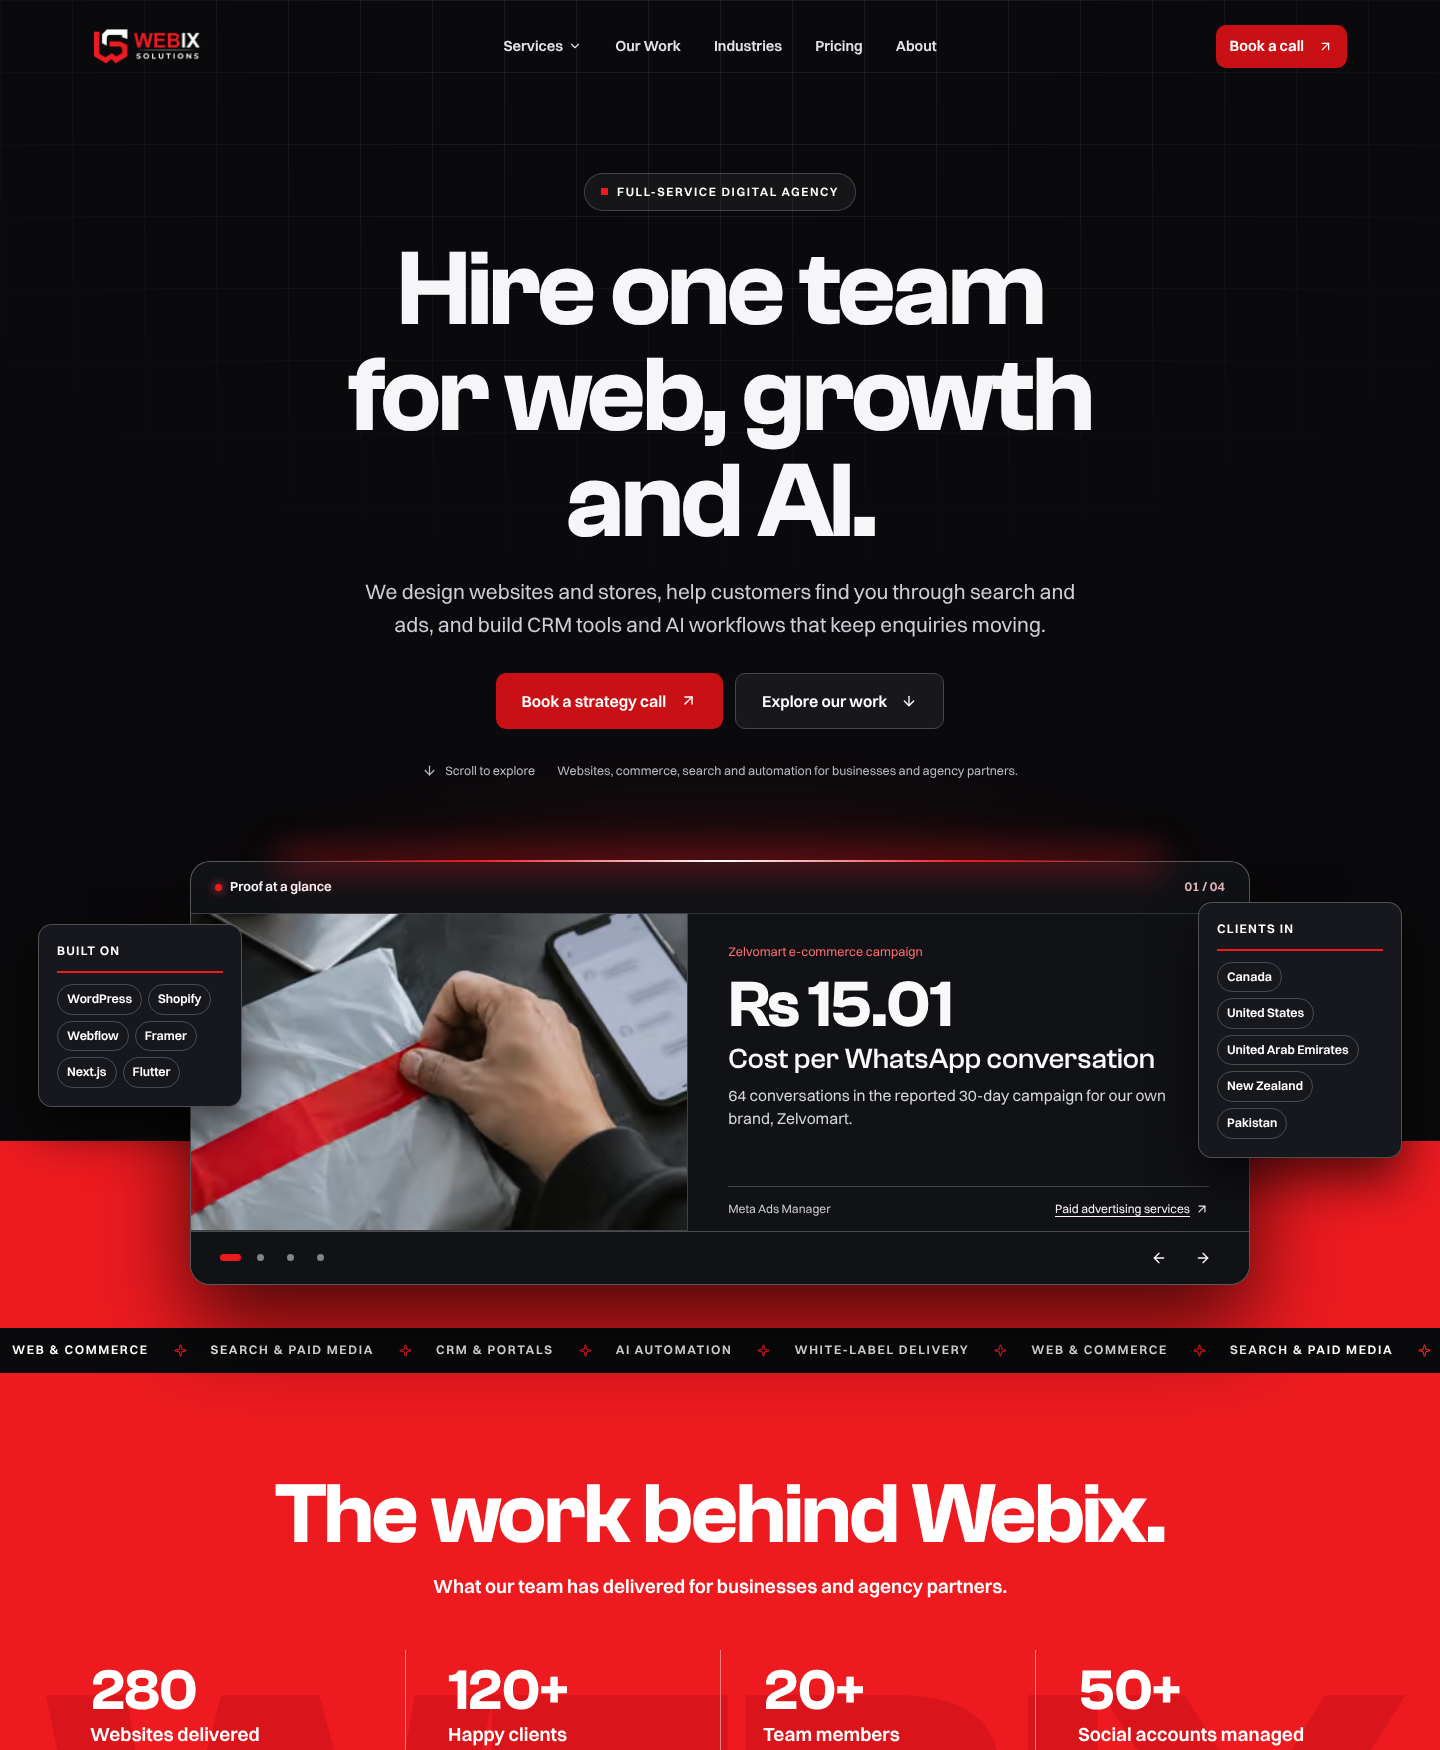
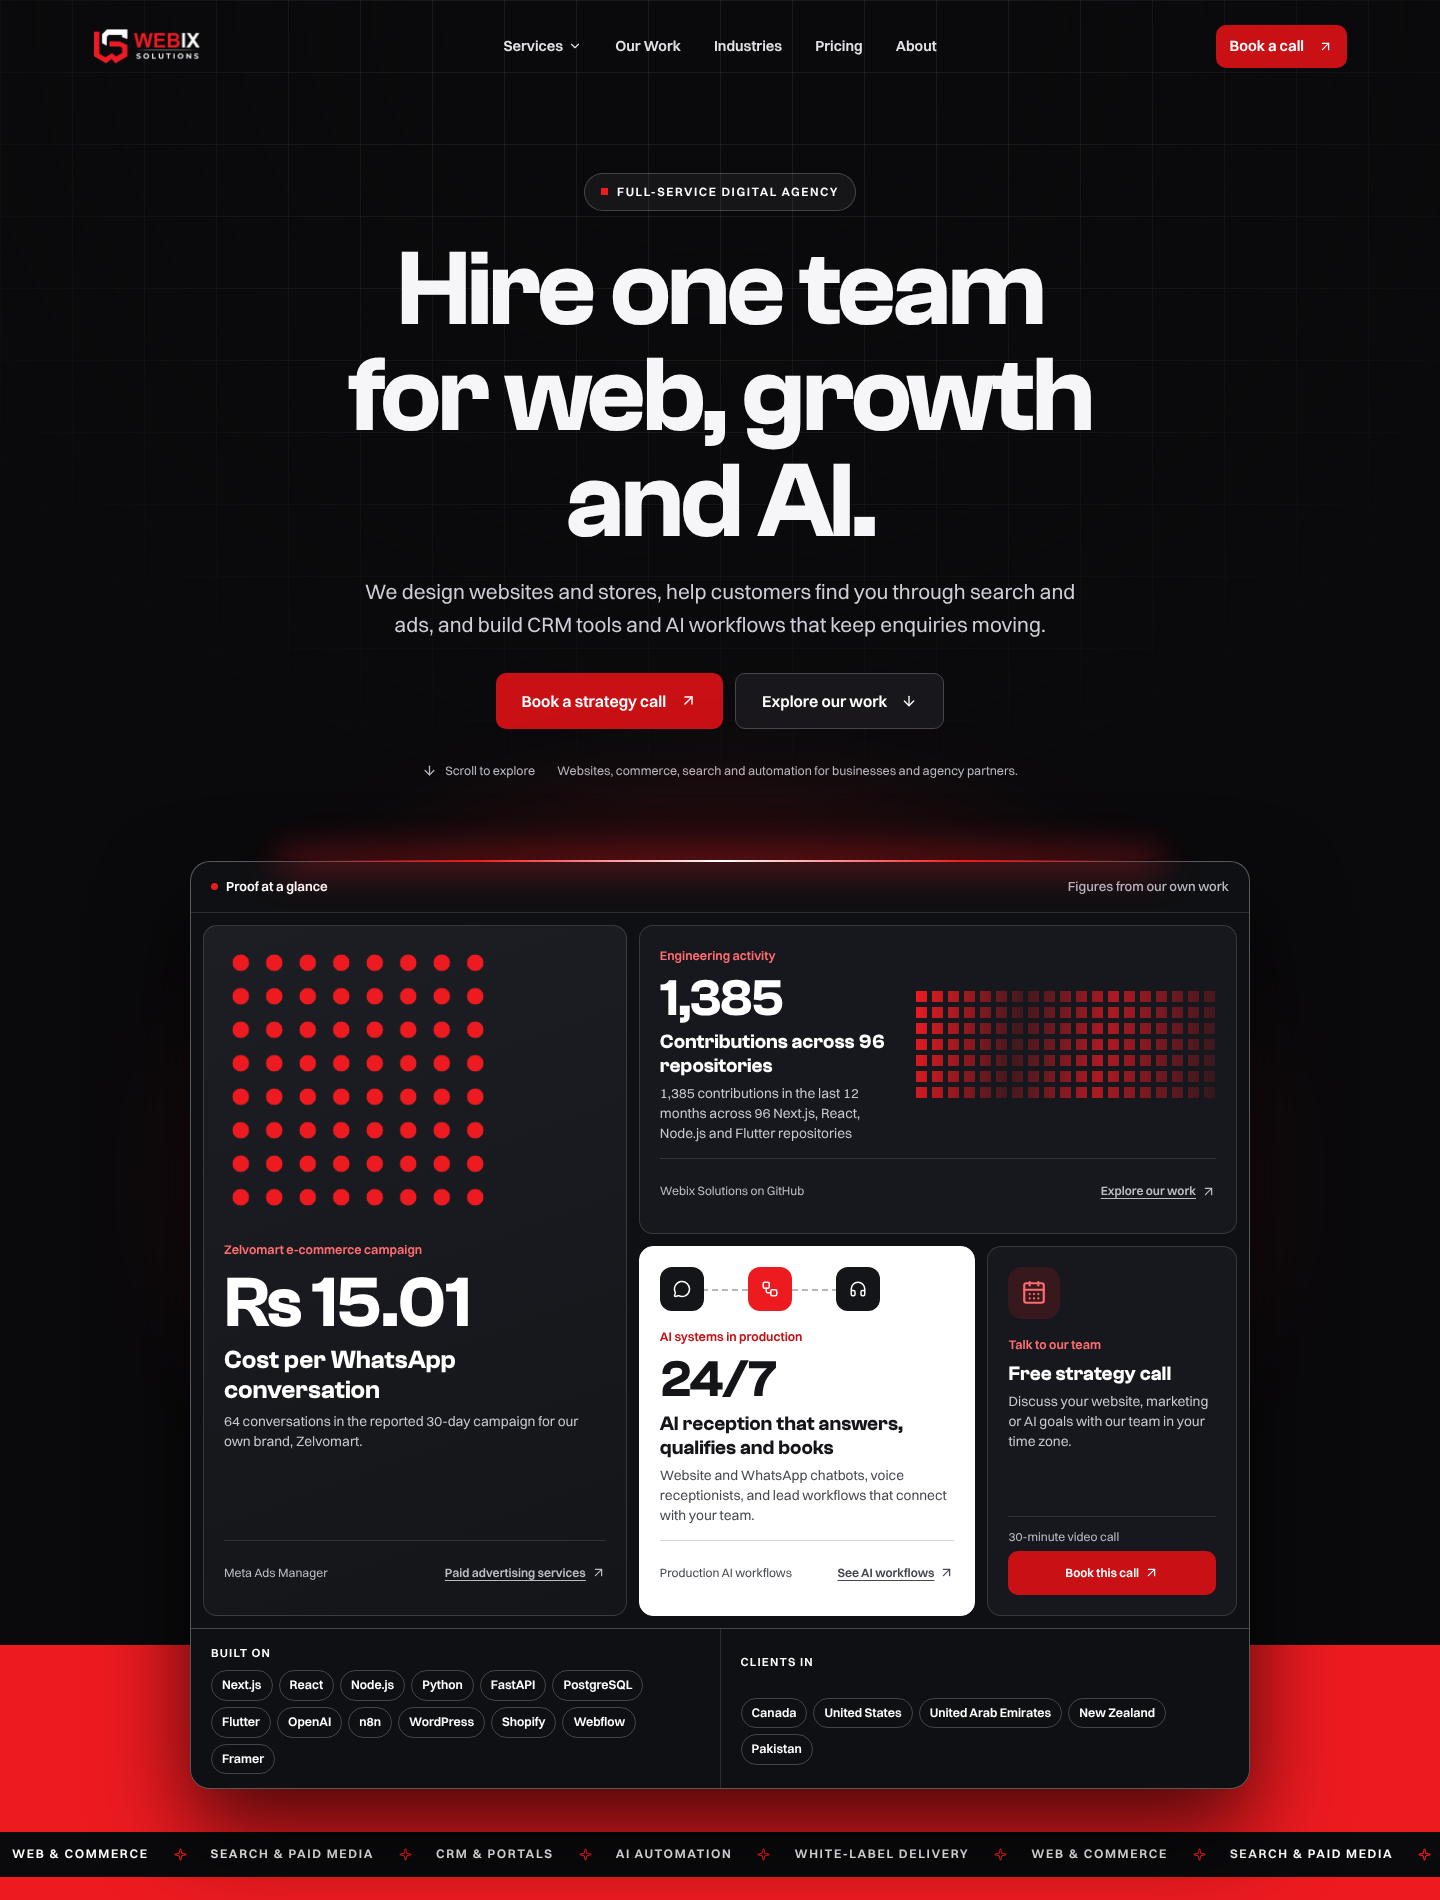
Replace the hero carousel with a proof board and show full-stack work
The hero now shows all four proof points at once as tiles with drawn
graphics instead of stock photos, so every figure is in the first HTML
with no carousel. The stack list covers Next.js, React, Node.js, Python,
FastAPI, PostgreSQL and automation tools as well as CMS platforms.
Publishes the custom portals and software service page so portals and
POS work appear in the services section, menu and sitemap.

Claude-Session: https://claude.ai/code/session_01S5YLEG3oSjRgb64pPUN6WE

diff --git a/app/studio-home.css b/app/studio-home.css
@@ -319,3 +319,71 @@ body:has(.interior-closing) .studio-footer-cta { display: none; }
 .booking-dates button,.booking-times button,.booking-dates-head button,.booking-dialog-head button { border-radius: 8px; }
 .interior-proof-strip { border-bottom: 0; border-radius: 14px; overflow: hidden; }
 #main [data-cut-frame] { overflow: hidden; }
+
+/* ==================================================================
+   Hero proof board: four proof tiles shown at once, drawn graphics
+   ================================================================== */
+.proof-board { border: 1px solid #ffffff4d; border-radius: 20px; background: #0f1013; color: #fff; box-shadow: 0 40px 90px #000000b3; overflow: hidden; }
+.proof-board-head { display: flex; align-items: center; justify-content: space-between; gap: 12px; padding: 14px 20px; border-bottom: 1px solid #ffffff1f; font-size: .83rem; font-weight: 650; }
+.proof-board-head > span:first-child { display: inline-flex; align-items: center; gap: 8px; }
+.proof-board-head i { width: 7px; height: 7px; border-radius: 50%; background: var(--studio-red); }
+.proof-board-head > span:last-child { color: #b9bac3; font-weight: 500; }
+.proof-board-grid { display: grid; grid-template-columns: repeat(12, minmax(0,1fr)); gap: 12px; padding: 12px; }
+.proof-tile { display: flex; flex-direction: column; min-width: 0; grid-column: span 6; padding: 20px; border: 1px solid #ffffff24; border-radius: 14px; background: #17181d; }
+.proof-tile[data-tile="ads"] { grid-column: span 5; grid-row: span 2; background: linear-gradient(160deg, #1d1e24, #141519); }
+.proof-tile[data-tile="github"] { grid-column: span 7; flex-direction: row; flex-wrap: wrap; align-items: center; column-gap: 20px; }
+.proof-tile[data-tile="ai"] { grid-column: span 4; background: #fff; color: var(--home-graphite); border-color: #fff; }
+.proof-tile[data-tile="slot"] { grid-column: span 3; }
+.proof-tile-copy { display: flex; flex: 1; flex-direction: column; gap: 6px; min-width: 0; }
+.proof-tile-kicker { color: var(--studio-ember); font-size: .79rem; font-weight: 600; }
+.proof-tile[data-tile="ai"] .proof-tile-kicker { color: var(--studio-action); }
+.proof-tile-metric { font: 600 clamp(2.2rem,3.6vw,3.4rem)/1 var(--font-clash-grotesk),sans-serif; letter-spacing: -.035em; }
+.proof-tile[data-tile="ads"] .proof-tile-metric { font-size: clamp(2.8rem,5vw,4.6rem); }
+.proof-tile h2 { font-size: clamp(1.02rem,1.4vw,1.25rem); line-height: 1.2; font-weight: 600; }
+.proof-tile[data-tile="ads"] h2 { font-size: clamp(1.2rem,1.8vw,1.6rem); }
+.proof-tile-detail { color: #c7c8cf; font-size: .86rem; line-height: 1.45; }
+.proof-tile[data-tile="ai"] .proof-tile-detail { color: var(--home-ink-muted); }
+.proof-tile-foot { display: flex; flex-wrap: wrap; align-items: center; justify-content: space-between; gap: 4px 12px; width: 100%; margin-top: 14px; padding-top: 10px; border-top: 1px solid #ffffff1f; color: #b9bac3; font-size: .76rem; }
+.proof-tile[data-tile="ai"] .proof-tile-foot { border-color: #d5d7dd; color: var(--home-ink-muted); }
+.proof-tile-link { display: inline-flex; align-items: center; gap: 5px; min-height: 44px; color: inherit; font-weight: 600; text-decoration: underline; text-underline-offset: 3px; }
+.proof-tile-link:hover { color: var(--studio-ember); }
+.proof-tile[data-tile="ai"] .proof-tile-link:hover { color: var(--studio-action); }
+.proof-tile[data-tile="slot"] .proof-tile-link { justify-content: center; width: 100%; padding-inline: 12px; border-radius: 10px; background: var(--studio-action); color: #fff; text-decoration: none; }
+.proof-tile[data-tile="slot"] .proof-tile-link:hover { background: #aa1015; color: #fff; }
+.proof-tile[data-tile="slot"] .proof-tile-foot > span { width: 100%; }
+.proof-tile[data-tile="slot"] .font-metric { font-size: 1.3rem; line-height: 1.2; }
+.proof-visual { flex: none; margin-bottom: 16px; }
+.proof-visual-dots { width: min(100%, 232px); aspect-ratio: 1; background: radial-gradient(circle, var(--studio-red) 0 34%, transparent 36%) 0 0 / 12.5% 12.5%; }
+.proof-visual-grid { order: 2; width: min(100%, 300px); height: 108px; margin-bottom: 0; background: linear-gradient(100deg, var(--studio-red), #ed1b2433 34%, #ed1b24b3 62%, #ed1b241f); mask-image: repeating-linear-gradient(90deg,#000 0 11px,transparent 11px 16px), repeating-linear-gradient(#000 0 11px,transparent 11px 16px); mask-composite: intersect; }
+.proof-tile[data-tile="github"] .proof-tile-copy { flex: 1 1 220px; }
+.proof-visual-flow { position: relative; display: flex; justify-content: space-between; width: min(100%, 220px); isolation: isolate; }
+.proof-visual-flow::before { content: ""; position: absolute; z-index: -1; inset: 50% 10% auto; border-top: 2px dashed #b4b8c2; }
+.proof-visual-flow span { display: grid; place-items: center; width: 44px; height: 44px; border-radius: 12px; background: var(--home-graphite); color: #fff; }
+.proof-visual-flow span:nth-child(2) { background: var(--studio-red); }
+.proof-visual-call { display: grid; place-items: center; width: 52px; height: 52px; border-radius: 14px; background: #ed1b2426; color: var(--studio-ember); }
+.proof-board-strip { display: grid; grid-template-columns: 1fr 1fr; gap: 1px; border-top: 1px solid #ffffff1f; background: #ffffff1f; }
+.proof-board-strip > div { display: flex; flex-wrap: wrap; align-items: center; gap: 8px 14px; padding: 14px 20px; background: #0f1013; }
+.proof-board-strip dt { font-size: .74rem; font-weight: 700; letter-spacing: .1em; text-transform: uppercase; }
+.proof-board-strip dd { display: flex; flex-wrap: wrap; gap: 6px; }
+.proof-board-strip dd span { padding: 4px 10px; border: 1px solid #ffffff38; border-radius: 999px; font-size: .78rem; font-weight: 600; }
+@media (max-width: 859px) {
+  .proof-board-grid { grid-template-columns: 1fr 1fr; }
+  .proof-tile,.proof-tile[data-tile] { grid-column: span 1; grid-row: auto; }
+  .proof-tile[data-tile="ads"],.proof-tile[data-tile="github"] { grid-column: 1 / -1; }
+  .proof-visual-dots { width: 132px; }
+}
+@media (max-width: 560px) {
+  .proof-board-grid { grid-template-columns: 1fr; gap: 10px; padding: 10px; }
+  .proof-tile { padding: 16px; }
+  .proof-board-head > span:last-child { display: none; }
+  .proof-board-strip { grid-template-columns: 1fr; }
+  .proof-board-strip > div { padding: 12px 16px; }
+}
+@media (min-width: 860px) {
+  .proof-tile[data-tile="ads"] { grid-column: 1 / span 5; grid-row: 1 / span 2; }
+  .proof-tile[data-tile="github"] { grid-column: 6 / span 7; grid-row: 1; }
+  .proof-tile[data-tile="ai"] { grid-column: 6 / span 4; grid-row: 2; }
+  .proof-tile[data-tile="slot"] { grid-column: 10 / span 3; grid-row: 2; }
+  .proof-tile[data-tile="ads"] .proof-visual-dots { width: min(100%, 268px); margin-bottom: 26px; }
+}
+.proof-tile[data-tile="github"] .proof-tile-foot { order: 3; }

diff --git a/components/studio/proof-board.tsx b/components/studio/proof-board.tsx
@@ -1,0 +1,75 @@
+import Link from "next/link";
+import { ArrowUpRight, CalendarDays, Headphones, MessageCircle, Workflow } from "lucide-react";
+import { ClientSlotTime } from "@/components/home/client-slot-time";
+import type { GrowthSignalItem } from "@/content/home-proof";
+
+/** Each proof tile gets a drawn graphic instead of a stock photo. */
+function TileVisual({ id }: { id: string }) {
+  if (id === "signal-ads") {
+    // 8 x 8 dots: one dot per WhatsApp conversation in the reported campaign.
+    return <div className="proof-visual proof-visual-dots" aria-hidden="true" />;
+  }
+  if (id === "signal-github") {
+    return <div className="proof-visual proof-visual-grid" aria-hidden="true" />;
+  }
+  if (id === "signal-ai") {
+    return (
+      <div className="proof-visual proof-visual-flow" aria-hidden="true">
+        <span><MessageCircle size={18} /></span>
+        <span><Workflow size={18} /></span>
+        <span><Headphones size={18} /></span>
+      </div>
+    );
+  }
+  return (
+    <div className="proof-visual proof-visual-call" aria-hidden="true">
+      <CalendarDays size={26} />
+    </div>
+  );
+}
+
+function TileLink({ href, label }: { href: string; label: string }) {
+  const content = <>{label} <ArrowUpRight size={15} aria-hidden="true" /></>;
+  return href.startsWith("/#")
+    ? <a className="proof-tile-link" href={href.slice(1)}>{content}</a>
+    : <Link className="proof-tile-link" href={href}>{content}</Link>;
+}
+
+export function ProofBoard({ signals, platforms, markets }: {
+  signals: GrowthSignalItem[];
+  platforms: readonly string[];
+  markets: readonly string[];
+}) {
+  return (
+    <div className="proof-board" role="region" aria-label="Proof at a glance">
+      <div className="proof-board-head">
+        <span><i aria-hidden="true" /> Proof at a glance</span>
+        <span>Figures from our own work</span>
+      </div>
+      <div className="proof-board-grid">
+        {signals.map((signal) => (
+          <article key={signal.id} className="proof-tile" data-tile={signal.id.replace("signal-", "")}>
+            <TileVisual id={signal.id} />
+            <div className="proof-tile-copy">
+              <p className="proof-tile-kicker">{signal.kicker}</p>
+              {signal.metricValue && <strong className="proof-tile-metric">{signal.metricValue}</strong>}
+              <h2>{signal.title}</h2>
+              {signal.slotData?.slotIso && signal.slotData.easternTimeFormatted && (
+                <ClientSlotTime slotIso={signal.slotData.slotIso} easternFallback={signal.slotData.easternTimeFormatted} />
+              )}
+              <p className="proof-tile-detail">{signal.detail}</p>
+            </div>
+            <div className="proof-tile-foot">
+              <span>{signal.sourceLabel}</span>
+              <TileLink href={signal.href} label={signal.linkLabel} />
+            </div>
+          </article>
+        ))}
+      </div>
+      <dl className="proof-board-strip">
+        <div><dt>Built on</dt><dd>{platforms.map((name) => <span key={name}>{name}</span>)}</dd></div>
+        <div><dt>Clients in</dt><dd>{markets.map((name) => <span key={name}>{name}</span>)}</dd></div>
+      </dl>
+    </div>
+  );
+}

diff --git a/content/services.ts b/content/services.ts
@@ -151,14 +151,14 @@ export const SERVICES_REGISTRY: ServiceEntry[] = [
   },
   {
     slug: "custom-web-application-development",
-    name: "Custom Web Applications",
-    shortName: "Custom Web Apps",
+    name: "Custom Portals & Software",
+    shortName: "Custom Portals & Software",
     category: "Build",
-    wave: "W2",
-    published: false,
+    wave: "W1",
+    published: true,
     title: "Custom Web Application Development | Webix Solutions",
     metaDescription:
-      "Portals, dashboards, booking systems, invoicing tools and SaaS MVPs built with Next.js, React and Node.js — fast, secure and made to scale.",
+      "Custom portals, POS software, dashboards, booking systems and SaaS MVPs built with Next.js, React, Node.js and Python. Scoped in writing and yours to own.",
     h1: "Custom web application development",
     primaryKeyword: "custom web application development",
     secondaryKeywords: [
@@ -166,8 +166,10 @@ export const SERVICES_REGISTRY: ServiceEntry[] = [
       "React development services",
       "SaaS MVP development",
       "web portal development",
+      "POS software development",
+      "Python web development",
     ],
-    shortOutcome: "Portals, SaaS MVPs, dashboards and booking tools built in Next.js, React and Node.js.",
+    shortOutcome: "Client portals, POS software, dashboards and SaaS MVPs built in Next.js, React, Node.js and Python.",
     startingPrice: "$3,500",
     priceUnit: "scoped project",
     confirmedPrice: false,

diff --git a/components/studio/hero-showcase.tsx b/components/studio/hero-showcase.tsx
@@ -1,6 +1,6 @@
-import { GrowthConsole } from "@/components/home/growth-console";
 import { getHomeProofSignals } from "@/content/home-proof";
 import type { NextSlotResult } from "@/lib/booking/next-slot";
+import { ProofBoard } from "./proof-board";
 
 type HeroShowcaseProps = { nextSlot: NextSlotResult; platforms: readonly string[]; markets: readonly string[] };
 
@@ -8,18 +8,8 @@ export function HeroShowcase({ nextSlot, platforms, markets }: HeroShowcaseProps
   return (
     <div className="studio-showcase" data-hero-stage>
       <span className="studio-showcase-slab" data-hero-slab aria-hidden="true" />
-      <div className="studio-hero-float studio-hero-float-start" data-hero-float>
-        <p>Built on</p>
-        <ul>{platforms.map((name) => <li key={name}>{name}</li>)}</ul>
-      </div>
-      <div className="studio-hero-float studio-hero-float-end" data-hero-float>
-        <p>Clients in</p>
-        <ul>{markets.map((name) => <li key={name}>{name}</li>)}</ul>
-      </div>
-      <div data-hero-tilt>
-        <div data-hero-card>
-          <GrowthConsole signals={getHomeProofSignals(nextSlot)} />
-        </div>
+      <div data-hero-card>
+        <ProofBoard signals={getHomeProofSignals(nextSlot)} platforms={platforms} markets={markets} />
       </div>
     </div>
   );

diff --git a/content/studio.ts b/content/studio.ts
@@ -8,7 +8,7 @@ export const STUDIO = {
     { number: "03", title: "CRM & client portals", detail: "Give your team one place to manage leads, bookings and customer records. Connect the tools you already use and give clients access to what they need.", href: "/custom-crm-development/" },
     { number: "04", title: "AI & workflow automation", detail: "Route enquiries, answer routine questions and follow up faster. Build in clear handoffs for the conversations your team needs to handle.", href: "/ai-automation-services/" },
   ],
-  platforms: ["WordPress", "Shopify", "Webflow", "Framer", "Next.js", "Flutter"],
+  platforms: ["Next.js", "React", "Node.js", "Python", "FastAPI", "PostgreSQL", "Flutter", "OpenAI", "n8n", "WordPress", "Shopify", "Webflow", "Framer"],
   process: [
     { title: "Set the brief", detail: "We map the problem, agree on the scope and tell you what we need from your team." },
     { title: "Review a working build", detail: "For a straightforward website, the first build can be ready to review in three business days after we have the content and access." },

diff --git a/content/work/index.ts b/content/work/index.ts
@@ -287,7 +287,7 @@ export const WORK_REGISTRY: WorkEntry[] = [
     ],
     services: [
       "ai-automation-services",
-      "custom-crm-development",
+      "custom-web-application-development",
     ],
     stack: [
       "Python 3.12",

diff --git a/docs/site-facts.md b/docs/site-facts.md
@@ -12,6 +12,7 @@ Never invent a statistic, award, client name, review, certification or year.
 | Founder & CEO | Haroon Sukhera | Confirmed |
 | Founder story | Started as a freelance WordPress/CMS developer, then built Webix Solutions into a full-service agency | Confirmed |
 | Headquarters (NAP) | Punjab, Pakistan (shown on site). Current city: Dunyapur; moving to Lahore in early 2027 | Owner decision 12 Nov 2026: the site names the region only, so nothing changes at the move. When the Lahore address is final, set `headquarters.addressLocality` in `content/site-facts.ts` and update the Google Business Profile to match |
+| Custom software | Client portals, POS software, dashboards and Python projects are delivered by the team | Confirmed by owner, 12 Nov 2026 |
 | Team description | "Team of 20+" | Owner decision 12 Nov 2026: do not write "remote", "in-house", "campus" or "under one roof" in site copy |
 | Meetings in Lahore | Available by appointment | Confirmed by Haroon (a team member is in Lahore) |
 | Planned move | HQ moves to Lahore within ~6 months — when it happens, update NAP here, on GBP and in schema on the same day | Internal only, do not publish |
